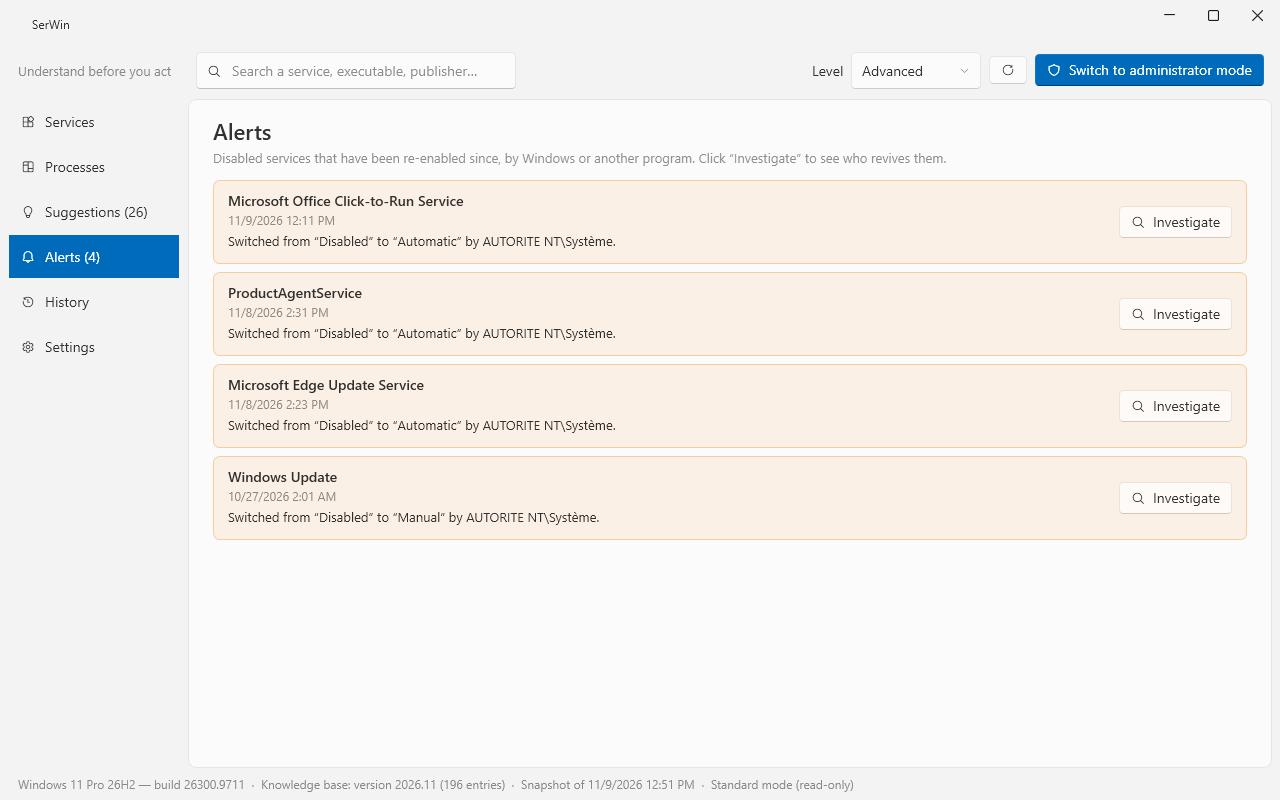
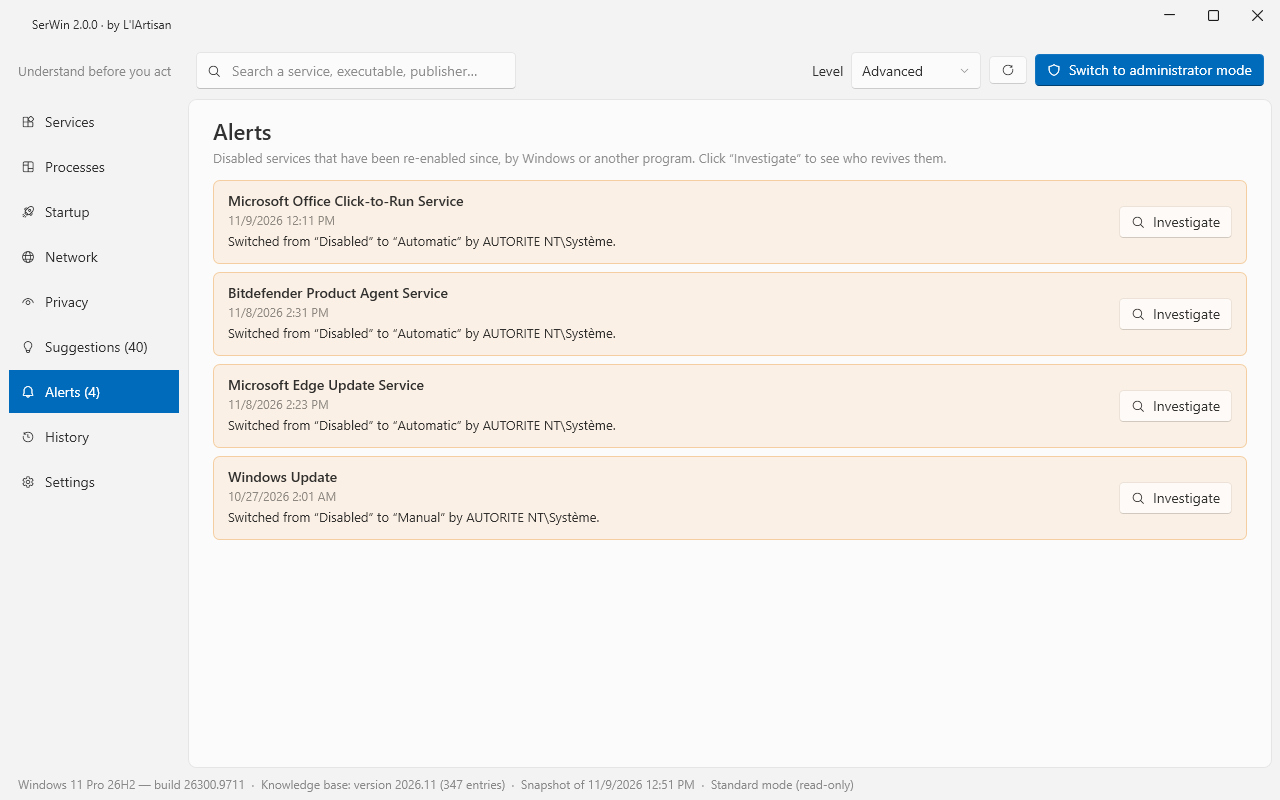
Version 2.0.0 : captures et README à jour
Nouvelles captures (Réseau, Qui écoute, Démarrage, Confidentialité) en
anglais et en français, image d'aperçu mise à jour.

diff --git a/README.md b/README.md
@@ -20,6 +20,7 @@ Most "Windows optimizers" offer a big button that disables dozens of services at
 - **It adapts to *your* PC.** SerWin detects your hardware locally (printer, Bluetooth, Wi-Fi, laptop or desktop, Xbox apps, third-party antivirus…) and tells you which services are useless *on this machine*.
 - **It shows who restarts a service.** Triggers, scheduled tasks, repair services (WaaSMedic…), recovery actions, updates: SerWin lists every mechanism that can bring a service back, and alerts you when one actually did.
 - **It shows who talks to the Internet.** The Network page lists which program or service contacts which server, and explains what each destination is for — without SerWin itself ever connecting to anything.
+- **It shows what your PC does on its own.** What starts with Windows (and what can wait), which apps used your camera, microphone or location, and who is listening for incoming connections.
 - **It never burns bridges.** Full backup before every change, history, one-click undo, *Restore everything*, optional restore point. Critical services are hard-blocked; important ones need explicit confirmation.
 
 ### Who restarts it?
@@ -36,6 +37,24 @@ Nothing is pre-checked: read each explanation and pick only what you want.
 
 ![Suggestions based on detected hardware](docs/images/en-suggestions.png)
 
+### Network: who contacts what
+
+Live feed, 24-hour / 7-day activity timeline by usefulness (telemetry, updates, ads…), and an explanation for each destination.
+
+![Network activity, timeline and live feed](docs/images/en-network.png)
+
+### Who is listening on your PC
+
+![Open ports and the program behind each](docs/images/en-listening.png)
+
+### Startup: what can wait
+
+![Startup programs, tasks and services with optimization suggestions](docs/images/en-startup.png)
+
+### Privacy: camera, microphone, location
+
+![Apps that used the camera, microphone or location](docs/images/en-privacy.png)
+
 ## Features
 
 | | |
@@ -44,9 +63,9 @@ Nothing is pre-checked: read each explanation and pick only what you want.
 | **Safe actions** | Start, stop, change startup type, backup + history + undo, *Restore everything*, restore point, red list (blocked) and orange list (confirmation) |
 | **Who restarts it** | Static analysis of 7 families of revival mechanisms + event-log timeline, "disabled then revived" alerts |
 | **Processes** | Parent → child tree, svchost groups expanded, CPU / RAM / disk per service, offline Authenticode signature check, suspicious locations |
-| **Network** *(v1.1)* | Who contacts what: live TCP connections with the exact program or Windows service, server names from the Windows DNS log (optional, undoable), 61 general entries describing what each destination is for (telemetry, updates, certificates, ads…), what breaks if blocked, and the official setting that reduces it. Observation only: nothing is blocked |
-| **Startup** *(v1.1)* | Programs launched at sign-in, startup scheduled tasks and automatic third-party services, with what each one is and optimization suggestions: disable at startup (same setting as Task Manager) or delayed start; startup slowdowns measured by Windows (admin). Everything undoable |
-| **Privacy** *(v1.1)* | Which apps used your camera, microphone or location, when and for how long, with a live “in use” indicator, plus **who is listening on your PC** (open ports and the program behind each) |
+| **Network** *(v2.0)* | Who contacts what: live TCP connections with the exact program or Windows service, server names from the Windows DNS log (optional, undoable), 61 general entries describing what each destination is for (telemetry, updates, certificates, ads…), what breaks if blocked, and the official setting that reduces it. Observation only: nothing is blocked |
+| **Startup** *(v2.0)* | Programs launched at sign-in, startup scheduled tasks and automatic third-party services, with what each one is and optimization suggestions: disable at startup (same setting as Task Manager) or delayed start; startup slowdowns measured by Windows (admin). Everything undoable |
+| **Privacy** *(v2.0)* | Which apps used your camera, microphone or location, when and for how long, with a live “in use” indicator, plus **who is listening on your PC** (open ports and the program behind each) |
 | **Your PC** | 15 local detection criteria, "useful / useless here" verdict, privacy suggestions, comparison with factory settings |
 | **Expert mode** | Full neutralization (service + linked tasks + triggers + recovery, byte-exact undo), registry key ACL lock |
 
@@ -74,7 +93,7 @@ Browsing needs no admin rights. To make changes, the 🛡 button restarts Ser
 
 ## Status
 
-Version 1.1 — 347 service entries, 38 process entries and 61 network destinations, all marked 📝 **Draft**: written from public documentation and checked against a real Windows 11 configuration, but not yet verified on a clean install of every edition. SerWin always shows the verification level of each entry.
+Version 2.0 — 347 service entries, 38 process entries and 61 network destinations, all marked 📝 **Draft**: written from public documentation and checked against a real Windows 11 configuration, but not yet verified on a clean install of every edition. SerWin always shows the verification level of each entry.
 
 Found a wrong explanation, or a service without an entry? [Open an issue](https://github.com/L-IArtisan/SerWin/issues/new/choose) — it is the most useful contribution.
 
